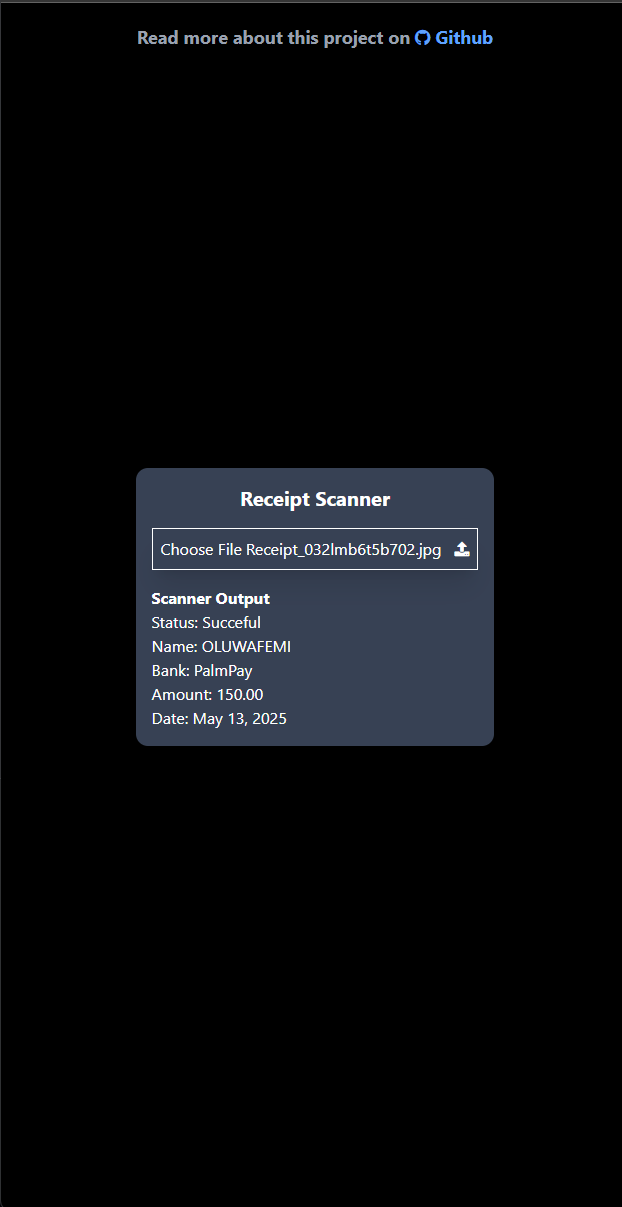
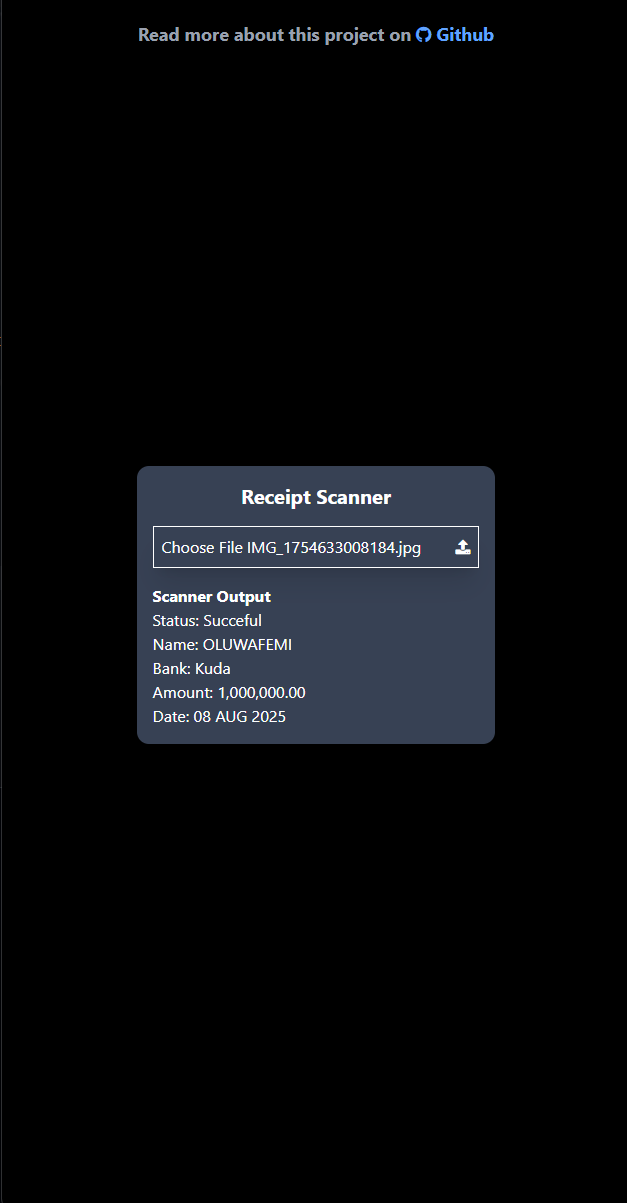
updating system

diff --git a/index.html b/index.html
@@ -44,7 +44,7 @@
                 const form = new FormData()
                 form.append('file', file)
                 form.append('name', "OLUWAFEMI")
-                form.append('bank', 'PalmPay')
+                form.append('bank', 'Kuda')
                 
                 fetch(url, {
                     method: "POST",

diff --git a/README.md b/README.md
@@ -16,7 +16,7 @@
 
 4. Use App
 
-> Note: The user interface won't be as efficient as using the API. Some fields are intentionally fixed.
+> Note: The user interface will provide just 90% successful data as the [account name & bank name] is fixed. Kindly use the API `/extract_info` as follows.
 
 #### API Structure:
     <!-- make sure you submit a form containing the following
@@ -24,8 +24,8 @@
      -->
     const form = new FormData()
     form.append('file', file)
-    form.append('name', "Bank Account Name")
-    form.append('bank', "Bank Name")
+    form.append('name', <BANK ACCOUNT NAME>)
+    form.append('bank', <BANK NAME>)
 
     fetch(base_url/extract_info, {
         body: form,
